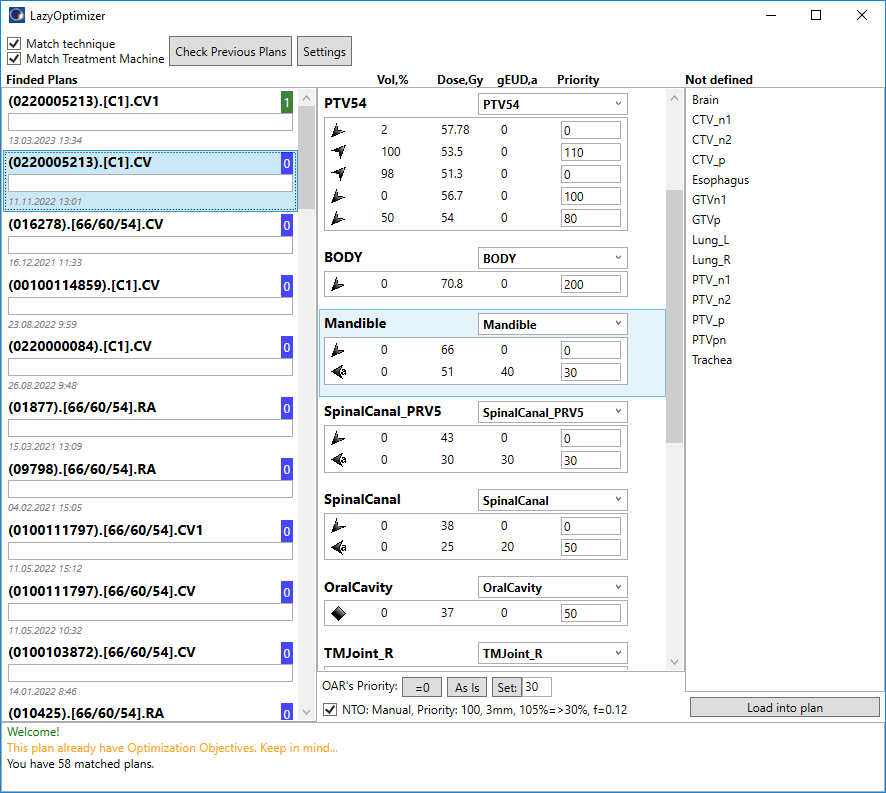
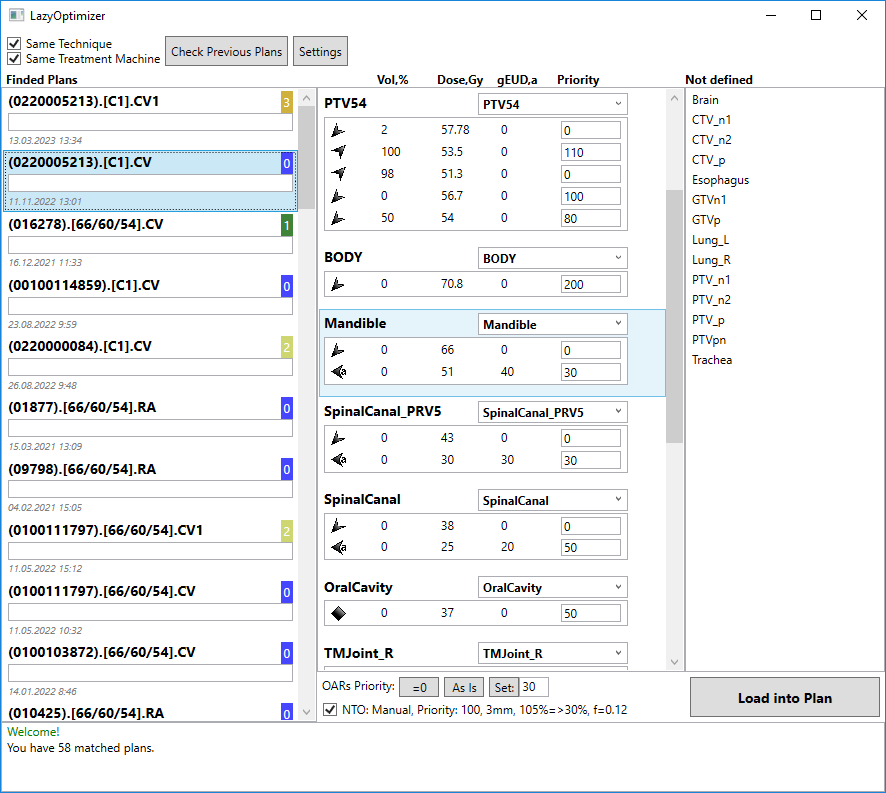
typos

diff --git a/LazyOptimizer/UI/ViewModels/MainVM.cs b/LazyOptimizer/UI/ViewModels/MainVM.cs
@@ -18,7 +18,7 @@ namespace LazyOptimizer.UI.ViewModels
             {
                 if (context.CurrentPlan.ObjectivesCount > 0)
                 {
-                    Logger.Write(this, $"This plan already have Optimization Objectives. Keep in mind...", LogMessageType.Warning);
+                    Logger.Write(this, $"There are already Optimization Objectives in this plan. Keep in mind...", LogMessageType.Warning);
                 }
 
                 HabitsVM habitsVM = new HabitsVM(context);
